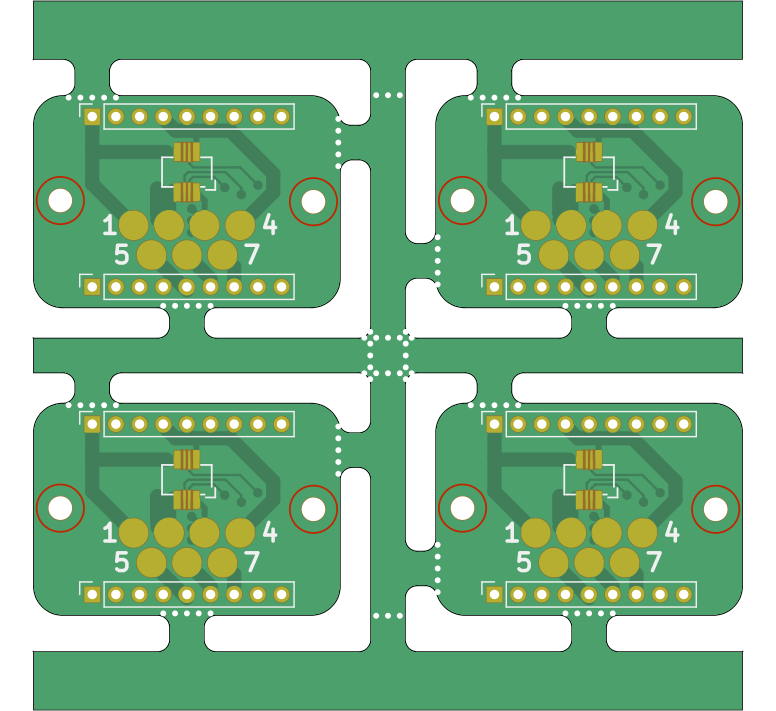
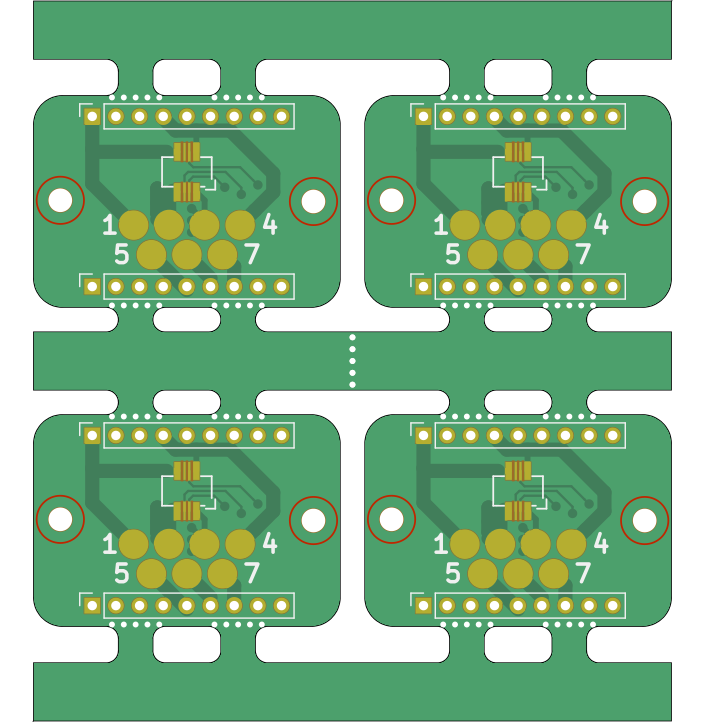
Add documentation for chamfer/fillet

diff --git a/scripts/exampleDoc.py b/scripts/exampleDoc.py
@@ -269,6 +269,33 @@ print("""
 There are many options for text and fiducials. Be sure to read the [full
 documentation](panelizeCli.md).
 
+If you have an automatic feeder in your PNP machine or you just dislike
+sharp corners, you can add a chamfer or a fillet to the panel frame/rails:
+""")
+
+runBoardExample(autoName(),
+    [["panelize"],
+        ["--layout", "grid; rows: 2; cols: 2; space: 2mm"],
+        ["--tabs", "fixed; width: 3mm; vcount: 2"],
+        ["--cuts", "mousebites; drill: 0.5mm; spacing: 1mm; offset: 0.2mm; prolong: 0.5mm"],
+        ["--framing", "railstb; width: 5mm; space: 3mm; fillet: 1mm"],
+        ["--tooling", "3hole; hoffset: 2.5mm; voffset: 2.5mm; size: 1.5mm"],
+        ["--fiducials", "3fid; hoffset: 5mm; voffset: 2.5mm; coppersize: 2mm; opening: 1mm;"],
+        ["--post", "millradius: 1mm"],
+        [SRC]])
+
+runBoardExample(autoName(),
+    [["panelize"],
+        ["--layout", "grid; rows: 2; cols: 2; space: 2mm"],
+        ["--tabs", "fixed; width: 3mm; vcount: 2"],
+        ["--cuts", "mousebites; drill: 0.5mm; spacing: 1mm; offset: 0.2mm; prolong: 0.5mm"],
+        ["--framing", "railstb; width: 5mm; space: 3mm; chamfer: 1mm"],
+        ["--tooling", "3hole; hoffset: 2.5mm; voffset: 2.5mm; size: 1.5mm"],
+        ["--fiducials", "3fid; hoffset: 5mm; voffset: 2.5mm; coppersize: 2mm; opening: 1mm;"],
+        ["--post", "millradius: 1mm"],
+        [SRC]])
+
+print("""
 # Advanced features & layouts
 
 It is possible that you have some critical features you want to avoid with tabs.

diff --git a/doc/examples.md b/doc/examples.md
@@ -256,6 +256,36 @@ kikit panelize \
 There are many options for text and fiducials. Be sure to read the [full
 documentation](panelizeCli.md).
 
+If you have an automatic feeder in your PNP machine or you just dislike
+sharp corners, you can add a chamfer or a fillet to the panel frame/rails:
+
+```
+kikit panelize \
+    --layout 'grid; rows: 2; cols: 2; space: 2mm' \
+    --tabs 'fixed; width: 3mm; vcount: 2' \
+    --cuts 'mousebites; drill: 0.5mm; spacing: 1mm; offset: 0.2mm; prolong: 0.5mm' \
+    --framing 'railstb; width: 5mm; space: 3mm; fillet: 1mm' \
+    --tooling '3hole; hoffset: 2.5mm; voffset: 2.5mm; size: 1.5mm' \
+    --fiducials '3fid; hoffset: 5mm; voffset: 2.5mm; coppersize: 2mm; opening: 1mm;' \
+    --post 'millradius: 1mm' \
+    doc/resources/conn.kicad_pcb panel.kicad_pcb
+```
+
+![examplePanel13](resources/examplePanel13.png)
+```
+kikit panelize \
+    --layout 'grid; rows: 2; cols: 2; space: 2mm' \
+    --tabs 'fixed; width: 3mm; vcount: 2' \
+    --cuts 'mousebites; drill: 0.5mm; spacing: 1mm; offset: 0.2mm; prolong: 0.5mm' \
+    --framing 'railstb; width: 5mm; space: 3mm; chamfer: 1mm' \
+    --tooling '3hole; hoffset: 2.5mm; voffset: 2.5mm; size: 1.5mm' \
+    --fiducials '3fid; hoffset: 5mm; voffset: 2.5mm; coppersize: 2mm; opening: 1mm;' \
+    --post 'millradius: 1mm' \
+    doc/resources/conn.kicad_pcb panel.kicad_pcb
+```
+
+![examplePanel14](resources/examplePanel14.png)
+
 # Advanced features & layouts
 
 It is possible that you have some critical features you want to avoid with tabs.
@@ -276,7 +306,7 @@ kikit panelize \
     doc/resources/conn.kicad_pcb panel.kicad_pcb
 ```
 
-![examplePanel13](resources/examplePanel13.png)
+![examplePanel15](resources/examplePanel15.png)
 
 When your board has a connector sticking one one side of the board, it makes
 sense to rotate the boards every other column, row or combination of both. KiKit
@@ -295,7 +325,7 @@ kikit panelize \
     doc/resources/conn.kicad_pcb panel.kicad_pcb
 ```
 
-![examplePanel14](resources/examplePanel14.png)
+![examplePanel16](resources/examplePanel16.png)
 
 Another solution might be to not put tabs on, e.g., vertical edges of the PCB.
 However, in that case your panel might be weak for further assembly. You can
@@ -315,7 +345,7 @@ kikit panelize \
     doc/resources/conn.kicad_pcb panel.kicad_pcb
 ```
 
-![examplePanel15](resources/examplePanel15.png)
+![examplePanel17](resources/examplePanel17.png)
 
 The most powerful feature of KiKit regarding tab placement are tabs via
 annotation. Remember our test board? When you open it in Pcbnew, you can see
@@ -339,7 +369,7 @@ kikit panelize \
     doc/resources/conn.kicad_pcb panel.kicad_pcb
 ```
 
-![examplePanel16](resources/examplePanel16.png)
+![examplePanel18](resources/examplePanel18.png)
 
 Well, the panel looks strange – right? That's because KiKit always constructs a
 half-bridges. When you specify the tabs location, you have to either ensure they
@@ -358,7 +388,7 @@ kikit panelize \
     doc/resources/conn.kicad_pcb panel.kicad_pcb
 ```
 
-![examplePanel17](resources/examplePanel17.png)
+![examplePanel19](resources/examplePanel19.png)
 
 Note that the annotation can have an arbitrary orientation. The arrow just must
 be outside board edge and points towards it. KiKit will also place only those
@@ -379,7 +409,7 @@ kikit panelize \
     doc/resources/conn.kicad_pcb panel.kicad_pcb
 ```
 
-![examplePanel18](resources/examplePanel18.png)
+![examplePanel20](resources/examplePanel20.png)
 
 When you use V-cuts with `copperfill` you (or your fab house) might want to
 include a clearance around the V-cuts:
@@ -394,7 +424,7 @@ kikit panelize \
     doc/resources/conn.kicad_pcb panel.kicad_pcb
 ```
 
-![examplePanel19](resources/examplePanel19.png)
+![examplePanel21](resources/examplePanel21.png)
 
 Note one last facts about V-cuts. V-cuts can only be straight and
 horizontal/vertical. But you can use them with circular boards if you want by
@@ -433,7 +463,7 @@ kikit panelize \
     doc/resources/conn.kicad_pcb panel.kicad_pcb
 ```
 
-![examplePanel20](resources/examplePanel20.png)
+![examplePanel22](resources/examplePanel22.png)
 
 You can learn more about available functions from the comment in the source code
 or in [documentation](panelization.md).
